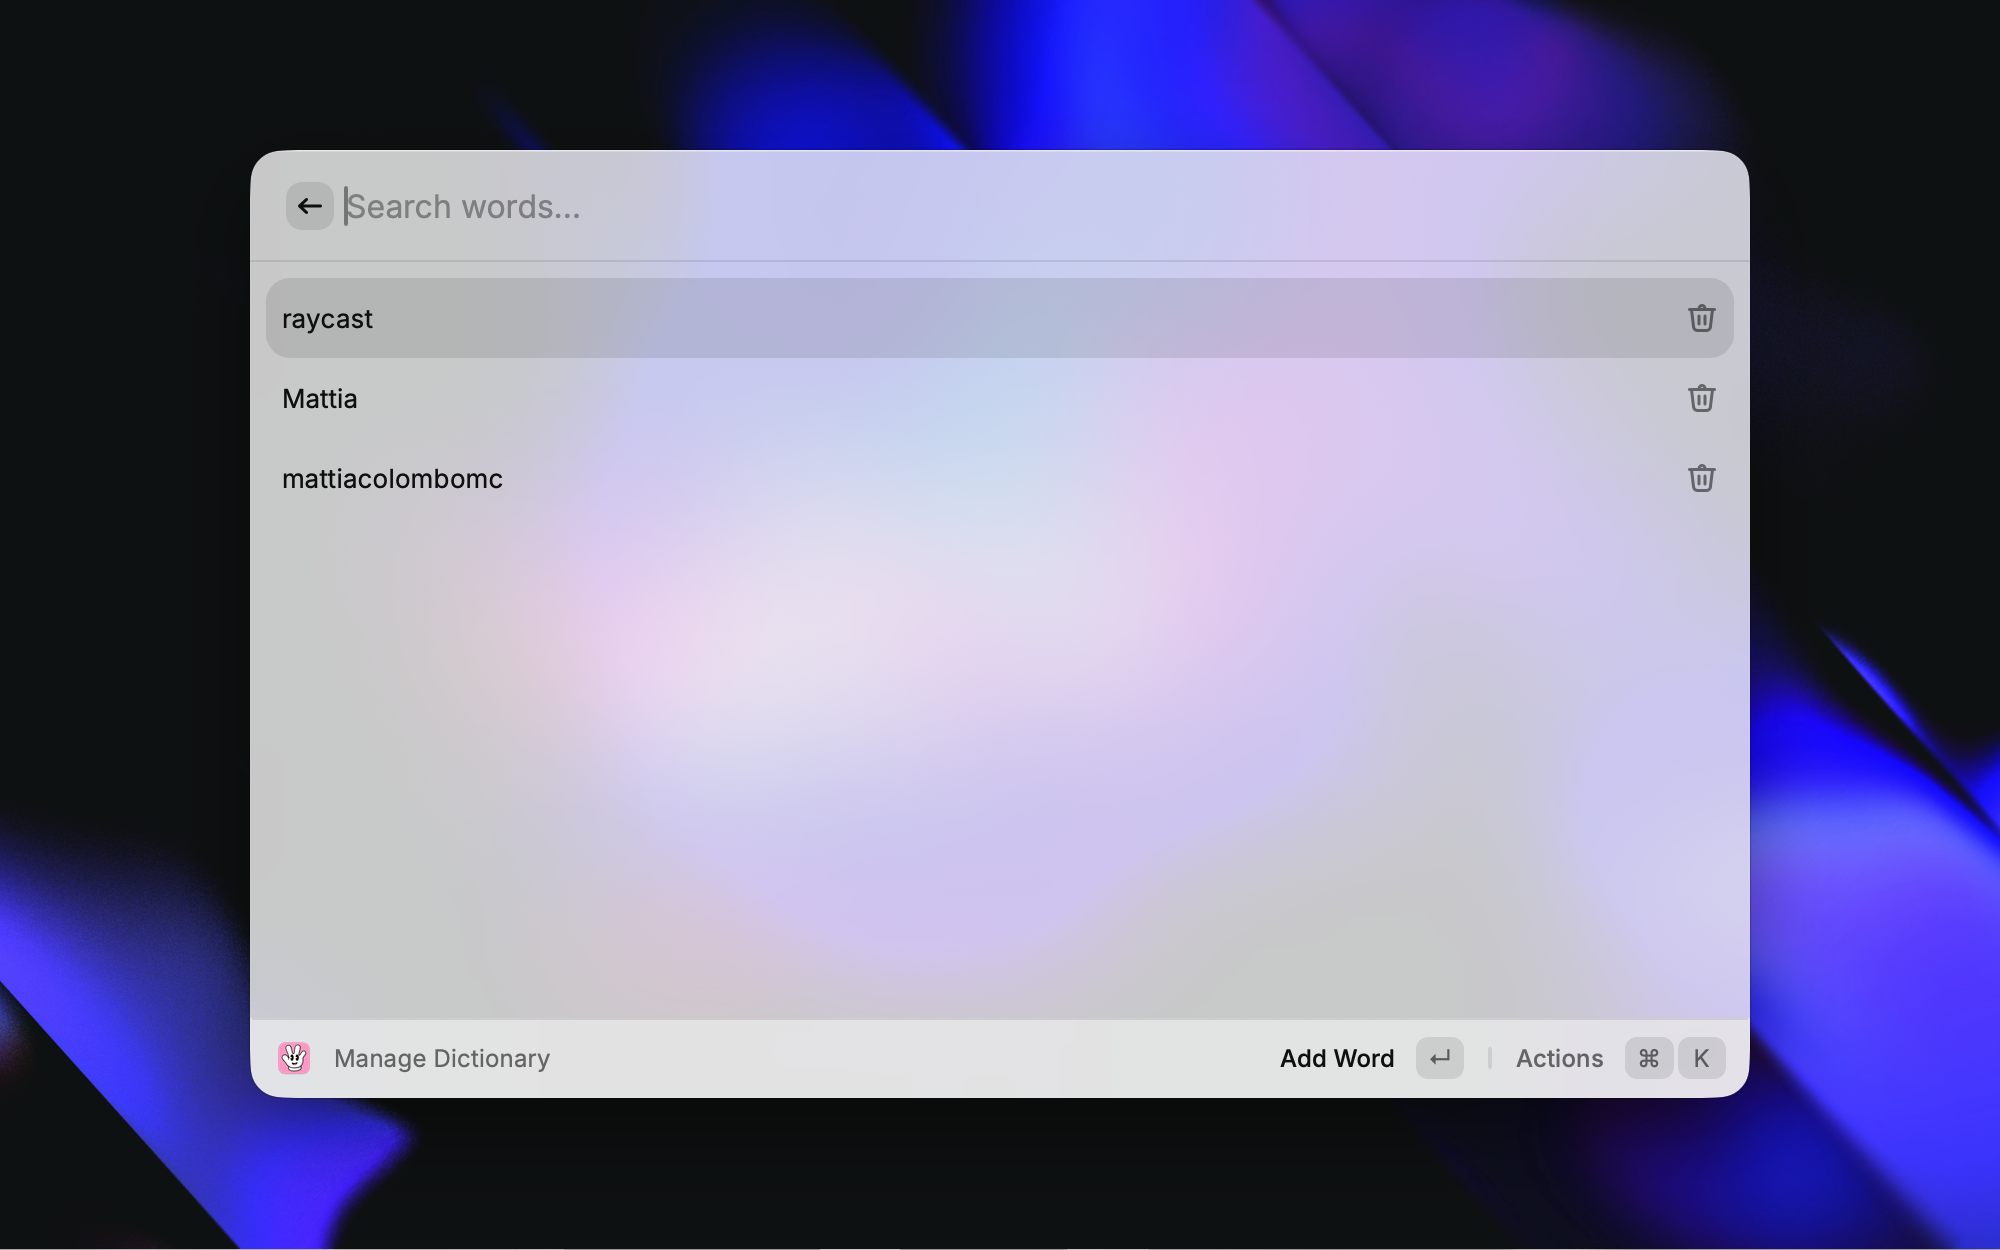
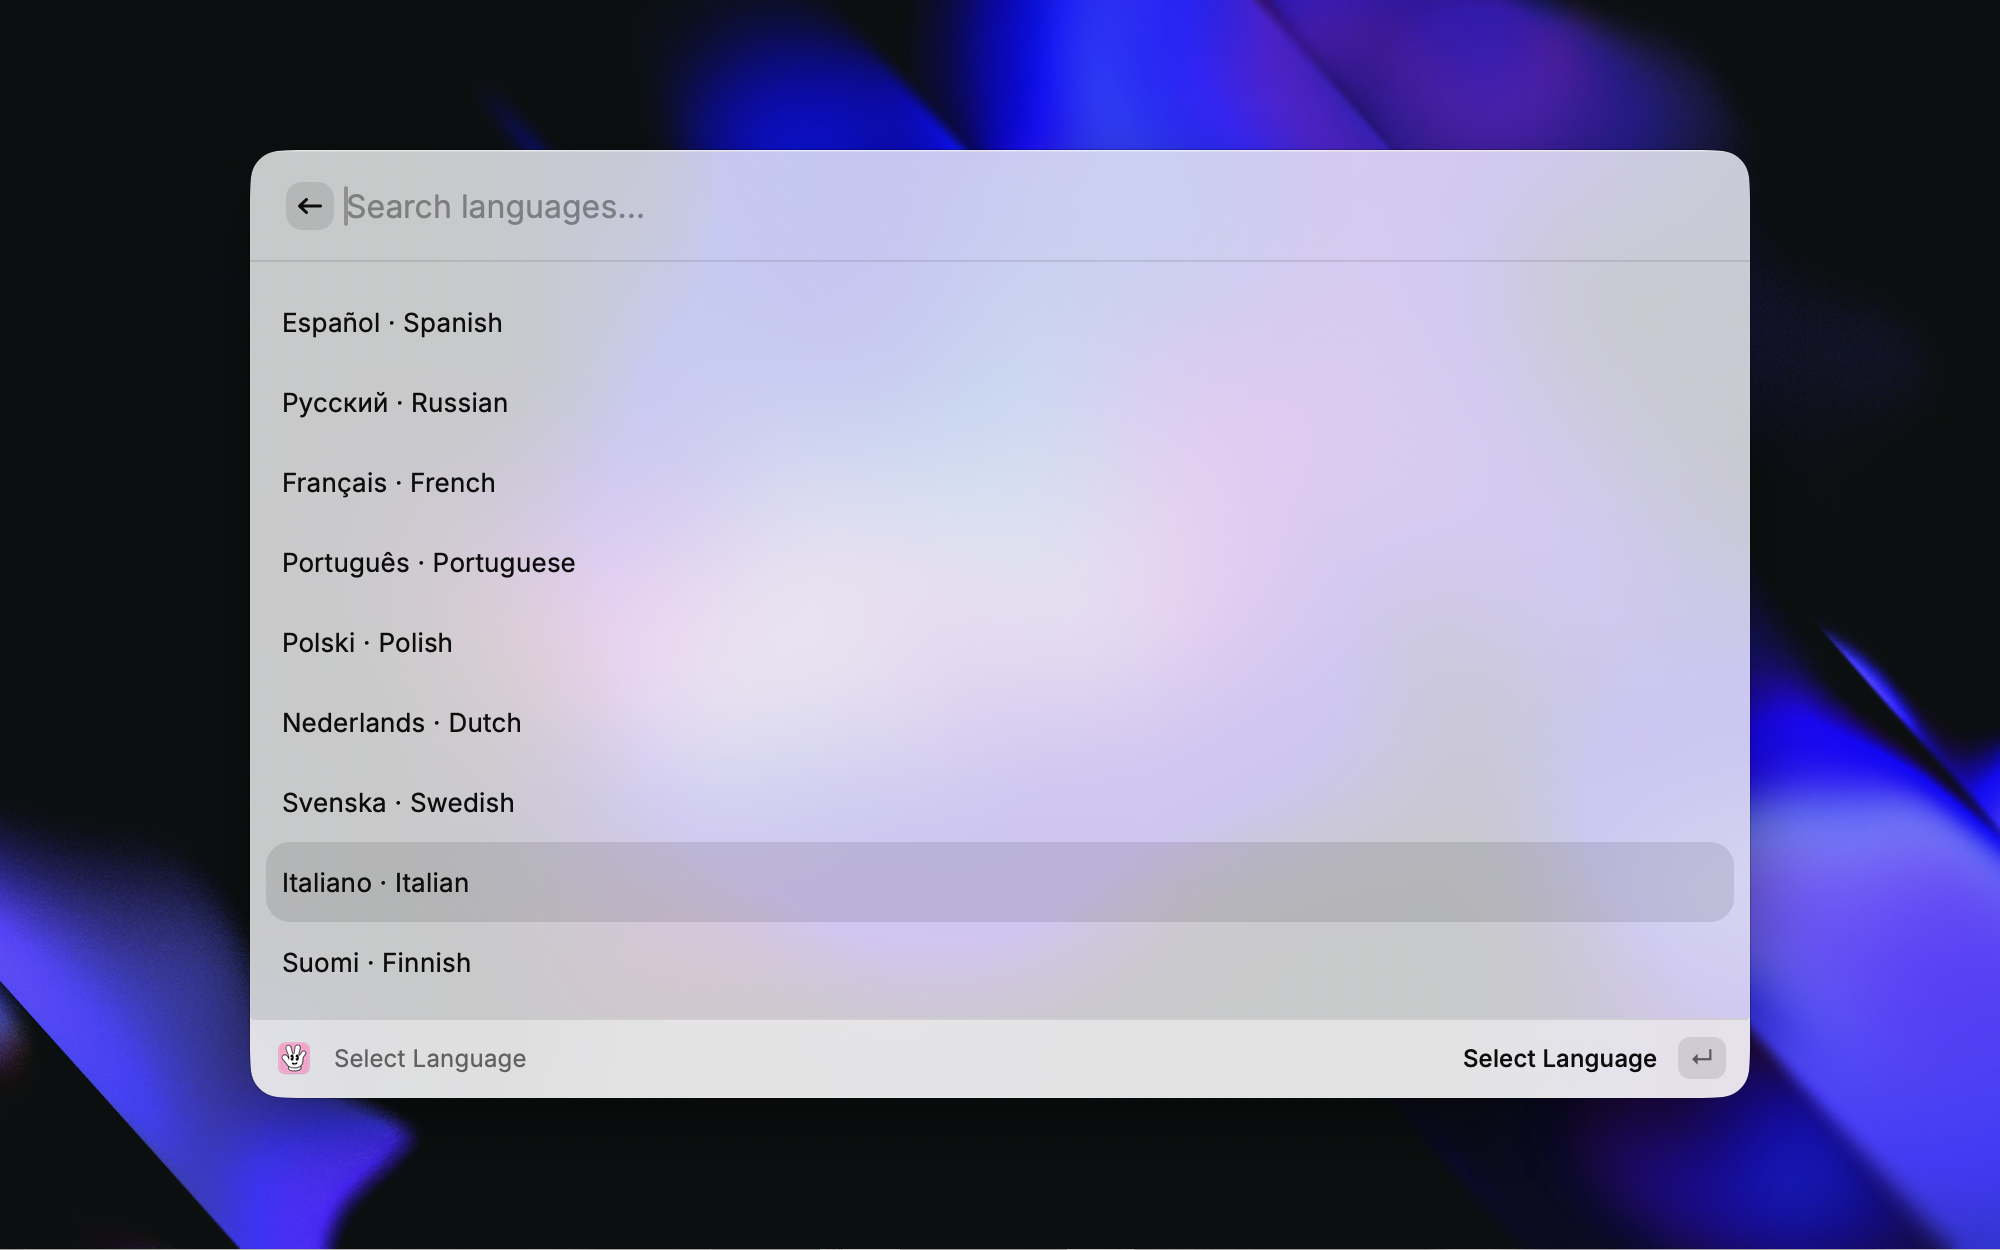
feat: add Select Language command, update screenshots, fix custom_words null safety

diff --git a/src/manage-dictionary.tsx b/src/manage-dictionary.tsx
@@ -19,14 +19,15 @@ function AddWordForm({ onAdd }: { onAdd: () => void }) {
       const word = values.word.trim();
       try {
         const s = readSettings();
-        if (s.custom_words.includes(word)) {
+        const customWords = s.custom_words ?? [];
+        if (customWords.includes(word)) {
           await showToast({
             style: Toast.Style.Failure,
             title: `'${word}' is already in dictionary`,
           });
           return;
         }
-        writeSettings({ custom_words: [...s.custom_words, word] });
+        writeSettings({ custom_words: [...customWords, word] });
         onAdd();
         pop();
         await showToast({
@@ -89,7 +90,9 @@ export default function ManageDictionary() {
   async function handleDelete(word: string) {
     try {
       const s = readSettings();
-      writeSettings({ custom_words: s.custom_words.filter((w) => w !== word) });
+      writeSettings({
+        custom_words: (s.custom_words ?? []).filter((w) => w !== word),
+      });
       load();
     } catch (err) {
       await showToast({

diff --git a/src/add-dictionary-word.tsx b/src/add-dictionary-word.tsx
@@ -8,14 +8,15 @@ export default function AddDictionaryWord() {
       const word = values.word.trim();
       try {
         const s = readSettings();
-        if (s.custom_words.includes(word)) {
+        const customWords = s.custom_words ?? [];
+        if (customWords.includes(word)) {
           await showToast({
             style: Toast.Style.Failure,
             title: `'${word}' is already in dictionary`,
           });
           return;
         }
-        writeSettings({ custom_words: [...s.custom_words, word] });
+        writeSettings({ custom_words: [...customWords, word] });
         reset();
         await showToast({
           style: Toast.Style.Success,

diff --git a/CHANGELOG.md b/CHANGELOG.md
@@ -1,11 +1,19 @@
 # Handy Changelog
 
-## [Initial Release] - {PR_MERGE_DATE}
+## [1.1.0] - {PR_MERGE_DATE}
+
+### Added
+- **Select Language** — set the transcription language for the active model; the list is automatically filtered to languages supported by the selected model (e.g. 4 languages for Canary 180M Flash, 7 for SenseVoice), with an error shown for models that don't support language selection (Parakeet, Moonshine, GigaAM)
+
+### Changed
+- Updated screenshots
+
+## [1.0.0] - {PR_MERGE_DATE}
 
 ### Added
 - **Search Transcripts** — browse full transcription history with detail pane, copy to clipboard, toggle saved, delete, and reveal recording in Finder
 - **Copy Last Transcript** — instantly copy the most recent transcription to clipboard
-- **Start Recording / Stop Recording** — toggle Handy's recording from Raycast
+- **Toggle Recording** — toggle Handy's recording from Raycast
 - **Add Dictionary Word** — quickly add a word to Handy's custom dictionary
 - **Manage Dictionary** — view, add, and delete custom dictionary words
 - **Select Model** — switch the active transcription model from downloaded models
